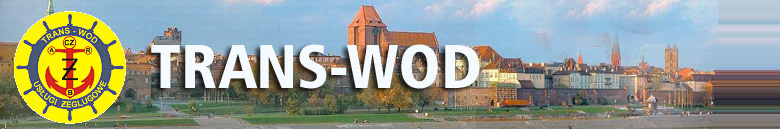
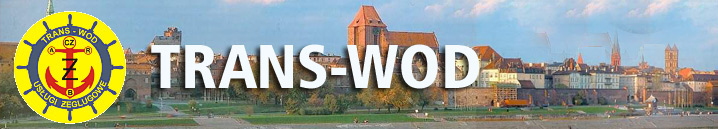
rwd applied in css

diff --git a/index.html b/index.html
@@ -1,100 +1,141 @@
 <!DOCTYPE html>
 <html lang="en">
-<head>
-<meta charset="utf-8">
-<meta http-equiv="X-UA-Compatible" content="IE=edge">
-<meta name="viewport" content="width=device-width, initial-scale=1">
-<link rel="stylesheet" media="all" href="common.css">
-<link rel="stylesheet" media="only screen and (max-width: 480px)" href="small.css">
-<link rel="stylesheet" media="only screen and (min-width: 480px)" href="large.css">
-<title>TRANS-WOD</title>
-</head>
+	<head>
+		<meta charset="utf-8">
+		<meta http-equiv="X-UA-Compatible" content="IE=edge">
+		<meta name="viewport" content="width=device-width, initial-scale=1">
+		<link rel="stylesheet" media="all" href="common.css">
+		<link rel="stylesheet" media="only screen and (max-width: 638px)" href="small.css">
+		<link rel="stylesheet" media="only screen and (min-width: 638px)" href="large.css">
+		<title>TRANS-WOD</title>
+	</head>
 
-<body>
+	<body>
 
-<script language="javascript">
+		<script language="javascript">
 function fotoGal(id,w,h) {
 
 	var alt=' - ';
-    var left = Math.ceil( (window.screen.width-w) / 2 );
-    var top = Math.ceil( (window.screen.height-h) / 2)-30;
+	var left = Math.ceil( (window.screen.width-w) / 2 );
+	var top = Math.ceil( (window.screen.height-h) / 2)-30;
 
 
-//	id = unescape(id);
+	//	id = unescape(id);
 
 	myWin = window.open("","myWind","width="+w+",height="+h+",left="+left+",top="+top+");");
 	myWin.document.open();
 	myWin.document.write('<html><title>'+alt+'</title><body bgcolor="#ffffff" leftmargin="0" topmargin="0" marginheight="0" marginwidth="0" onBlur="self.close()">'); 
 	myWin.document.write('<a href=javascript:window.close();><img src=\"'+id+'\" width='+w+' height='+h+' border=0></a>'); 
-	myWin.document.write('</body></html>');
+		myWin.document.write('</body></html>');
 	myWin.document.close();
 	myWin.focus();
 
 }
 
-</script>
-<div id="container">
-<h1><span>TRANS-WOD</span></h1>
 
-<div id="contact">
-<b>TRANS-WOD Błocki Czesław<br>
-05 -220 Zielonka<br>
-ul. Kilińskiego 45</b><br>
-<br>
-Telefony: tel. 601 625 682<br>
-fax. 56 651 44 10<br>
-<br>
-Adresy email: <a href="mailto:czeslaw_blocki@vp.pl" style="text-decoration:none">czeslaw_blocki@vp.pl</a><br>
-<br>
-<a href="http://www.zegluga.torun.com.pl/" style="text-decoration:none">http://www.zegluga.torun.com.pl</a><br>
-</div>
+		</script>
+		<div id="container">
+			<h1><img alt="TRANS-WOD" src="imgs/head.jpg" /></h1>
 
-<div id="gallery">
-<a href="javascript:fotoGal('g/163_6387.JPG','640','480');"><img src="imgs/163_6387.JPG" style="border-color:#444444; border-width:1px;" width="129.01" height="97"></a><a href="javascript:fotoGal('g/163_6399.JPG','640','480');"><img src="TRANS-WOD_files/163_6399.JPG" style="border-color:#444444; border-width:1px;" width="129.01" height="97"></a><img src="TRANS-WOD_files/t.htm" width="2"><a href="javascript:fotoGal('g/163_6400.JPG','640','480');"><img src="TRANS-WOD_files/163_6400.JPG" style="border-color:#444444; border-width:1px;" width="129.01" height="97"></a><img src="TRANS-WOD_files/t.htm" width="2"><br><img src="TRANS-WOD_files/t.htm" height="2"><br><a href="javascript:fotoGal('g/164_6401.JPG','640','480');"><img src="TRANS-WOD_files/164_6401.JPG" style="border-color:#444444; border-width:1px;" width="129.01" height="97"></a><img src="TRANS-WOD_files/t.htm" width="2"><a href="javascript:fotoGal('g/164_6408.JPG','640','480');"><img src="TRANS-WOD_files/164_6408.JPG" style="border-color:#444444; border-width:1px;" width="129.01" height="97"></a><img src="TRANS-WOD_files/t.htm" width="2">
-</div>
-	<tr>
-	<td style="font-family:verdana; line-height:20px; font-size:14px; color:#ffffff; padding-left:20px; padding-right:20px; padding-top:20px;" colspan="2">Godziny otwarcia:<br>
-<br>
-<b>Codziennie od 9.00 do 19.00 po godzinach możliwość wyczarterowania statków na imprezy okolicznościowe</b><br>
-<br>
-Proponujemy Państwu niepowtarzalną możliwość podziwiania panoramy 
-toruńskiej starówki z pokładów statku Wanda oraz statku Wiking. O każdej
- pełnej godzinie zabierzemy Was w 40-minutowy rejs po Wiśle. Wiking - 
-statek stylizowany na historyczne łodzie Wilkingów dodatkowo w trakcie 
-rejsu może dobić do przystani przy Kempie Bazarowej (rezerwat przyrody).
- Poza regularnymi rejsami proponujemy Państwu wynajem naszych statków, 
-na imprezy okolicznościowe, koncerty i spotkania firmowe. Na pokładzie 
-statku Wanda znajduje się bar z napojami i słodyczami. Rejsy statkiem 
-możliwe są również podczas złej pogody, Wanda posiada 70 miejsc w dwu 
-pomieszczeniach pod pokładem<br>
-<br>
-Bilety na rejsy 40-minutowe:<br>
-Dorośli: 15 zł<br>
-Dzieci i młodzież: 10 zł<br>
-Dzieci do lat 4: bezpłatnie<br>
-<br>
-Czarter statków:<br>
-Wanda-1000zł/h rejsu i 400zł/h postój na kotwicy<br>
-<br>
-Wiking-700zł/h rejsu i 300zł/h postój na kotwicy<p></p><br>
-<br>
-<center><b><u>DODATKOWO ŚWIADCZYMY USŁUGI ZWIĄZANE Z TRANSPORTEM RZECZNYM I MORSKIM PONADGABARYTOWYCH ŁADUNKÓW</u></b><br>
-<br>
-Posiadamy specjalistyczny sprzęt oraz wysokowykwalifikowaną kadrę, 
-szczegółowe informacje pod podanymi powyżej numerami telefonów.</center><br>
-<center><h3></h3><a href="javascript:fotoGal('g3/1.JPG','640','422');"><img src="TRANS-WOD_files/1.JPG" style="border-color:#444444; border-width:1px;" width="146.47" height="97"></a><img src="TRANS-WOD_files/t.htm" width="2"><a href="javascript:fotoGal('g3/2.JPG','640','421');"><img src="TRANS-WOD_files/2.JPG" style="border-color:#444444; border-width:1px;" width="146.47" height="97"></a><img src="TRANS-WOD_files/t.htm" width="2"><a href="javascript:fotoGal('g3/p1070058d.jpg','550','310');"><img src="TRANS-WOD_files/p1070058d.jpg" style="border-color:#444444; border-width:1px;" width="171.41095890411" height="97"></a><img src="TRANS-WOD_files/t.htm" width="2"><br><img src="TRANS-WOD_files/t.htm" height="2"><br><a href="javascript:fotoGal('g3/p1070079d.jpg','550','310');"><img src="TRANS-WOD_files/p1070079d.jpg" style="border-color:#444444; border-width:1px;" width="171.41095890411" height="97"></a><img src="TRANS-WOD_files/t.htm" width="2"><a href="javascript:fotoGal('g3/p1070082d.jpg','550','310');"><img src="TRANS-WOD_files/p1070082d.jpg" style="border-color:#444444; border-width:1px;" width="171.41095890411" height="97"></a><img src="TRANS-WOD_files/t.htm" width="2"><a href="javascript:fotoGal('g3/p1070088d.jpg','550','310');"><img src="TRANS-WOD_files/p1070088d.jpg" style="border-color:#444444; border-width:1px;" width="171.41095890411" height="97"></a><img src="TRANS-WOD_files/t.htm" width="2"><br><img src="TRANS-WOD_files/t.htm" height="2"><br><a href="javascript:fotoGal('g3/p1070177d.jpg','550','310');"><img src="TRANS-WOD_files/p1070177d.jpg" style="border-color:#444444; border-width:1px;" width="171.41095890411" height="97"></a><img src="TRANS-WOD_files/t.htm" width="2"><a href="javascript:fotoGal('g3/zegluga-01.jpg','550','364');"><img src="TRANS-WOD_files/zegluga-01.jpg" style="border-color:#444444; border-width:1px;" width="129" height="97"></a><img src="TRANS-WOD_files/t.htm" width="2"><a href="javascript:fotoGal('g3/zegluga-02.jpg','550','368');"><img src="TRANS-WOD_files/zegluga-02.jpg" style="border-color:#444444; border-width:1px;" width="129" height="97"></a><img src="TRANS-WOD_files/t.htm" width="2"><br><img src="TRANS-WOD_files/t.htm" height="2"><br><a href="javascript:fotoGal('g3/zegluga-03.jpg','550','342');"><img src="TRANS-WOD_files/zegluga-03.jpg" style="border-color:#444444; border-width:1px;" width="129" height="97"></a><img src="TRANS-WOD_files/t.htm" width="2"></center>	<br><br>
+			<div id="main-info" class="clearfix">
+				<div id="contact">
+					<b>TRANS-WOD Błocki Czesław<br>
+						05 -220 Zielonka<br>
+						ul. Kilińskiego 45</b><br>
+					<br>
+					Telefony: tel. 601 625 682<br>
+					fax. 56 651 44 10<br>
+					<br>
+					Adresy email: <a href="mailto:czeslaw_blocki@vp.pl" style="text-decoration:none">czeslaw_blocki@vp.pl</a><br>
+					<br>
+					<a href="http://www.zegluga.torun.com.pl/" style="text-decoration:none">http://www.zegluga.torun.com.pl</a><br>
+				</div>
 
-
-	</td>
-	</tr>
-	</tbody></table>
-
-</td>
-   </tr>
-  </tbody></table></td>
- </tr>
-</tbody></table>
-
-</div>
-</body>
+				<div id="gallery">
+					<div>
+					<a href="javascript:fotoGal('g/163_6387.JPG','640','480');"><img src="imgs/163_6387.JPG" style="border-color:#444444; border-width:1px;" width="129.01"
+																		 																	  height="97"></a>
+					<a href="javascript:fotoGal('g/163_6399.JPG','640','480');"><img
+		src="imgs/163_6399.JPG" style="border-color:#444444; border-width:1px;" width="129.01" height="97"></a>
+					</div>
+					<div>
+					<a
+									  																href="javascript:fotoGal('g/163_6400.JPG','640','480');"><img src="imgs/163_6400.JPG" style="border-color:#444444; border-width:1px;"
+																		  													width="129.01" height="97"></a>
+					</div>
+					<div>
+					<a href="javascript:fotoGal('g/164_6401.JPG','640','480');"><img src="imgs/164_6401.JPG"
+																	  style="border-color:#444444; border-width:1px;"
+				   width="129.01" height="97"></a>
+					<a href="javascript:fotoGal('g/164_6408.JPG','640','480');"><img src="imgs/164_6408.JPG"
+																	  style="border-color:#444444; border-width:1px;"
+				   width="129.01" height="97"></a>
+					</div>
+				</div>
+			</div>
+			<div id="offer">
+				Godziny otwarcia:<br>
+				<br>
+				<b>Codziennie od 9.00 do 19.00 po godzinach możliwość wyczarterowania statków na imprezy okolicznościowe</b><br>
+				<br>
+				Proponujemy Państwu niepowtarzalną możliwość podziwiania panoramy
+				toruńskiej starówki z pokładów statku Wanda oraz statku Wiking. O każdej
+				pełnej godzinie zabierzemy Was w 40-minutowy rejs po Wiśle. Wiking -
+				statek stylizowany na historyczne łodzie Wilkingów dodatkowo w trakcie
+				rejsu może dobić do przystani przy Kempie Bazarowej (rezerwat przyrody).
+				Poza regularnymi rejsami proponujemy Państwu wynajem naszych statków,
+				na imprezy okolicznościowe, koncerty i spotkania firmowe. Na pokładzie
+				statku Wanda znajduje się bar z napojami i słodyczami. Rejsy statkiem
+				możliwe są również podczas złej pogody, Wanda posiada 70 miejsc w dwu
+				pomieszczeniach pod pokładem<br>
+				<br>
+				Bilety na rejsy 40-minutowe:<br>
+				Dorośli: 15 zł<br>
+				Dzieci i młodzież: 10 zł<br>
+				Dzieci do lat 4: bezpłatnie<br>
+				<br>
+				Czarter statków:<br>
+				Wanda-1000zł/h rejsu i 400zł/h postój na kotwicy<br>
+				<br>
+				Wiking-700zł/h rejsu i 300zł/h postój na kotwicy<p></p><br>
+				<br>
+				<center><b><u>DODATKOWO ŚWIADCZYMY USŁUGI ZWIĄZANE Z TRANSPORTEM RZECZNYM I MORSKIM PONADGABARYTOWYCH ŁADUNKÓW</u></b><br>
+					<br>
+					Posiadamy specjalistyczny sprzęt oraz wysokowykwalifikowaną kadrę,
+					szczegółowe informacje pod podanymi powyżej numerami telefonów.
+				</center>
+			</div>
+			<div id="secondGallery">
+				<center><h3></h3><a href="javascript:fotoGal('g3/1.JPG','640','422');"><img src="imgs/1.JPG"
+																				style="border-color:#444444; border-width:1px;" width="146.47"
+																	height="97"></a>
+					<a href="javascript:fotoGal('g3/2.JPG','640','421');"><img src="imgs/2.JPG" style="border-color:#444444; border-width:1px;"
+																							width="146.47" height="97"></a>
+					<a href="javascript:fotoGal('g3/p1070058d.jpg','550','310');"><img src="imgs/p1070058d.jpg"
+																		style="border-color:#444444; border-width:1px;" width="171.41095890411"
+																  height="97"></a>
+					<a href="javascript:fotoGal('g3/p1070079d.jpg','550','310');"><img
+		src="imgs/p1070079d.jpg" style="border-color:#444444; border-width:1px;" width="171.41095890411" height="97"></a>
+					<a href="javascript:fotoGal('g3/p1070082d.jpg','550','310');"><img src="imgs/p1070082d.jpg"
+																		style="border-color:#444444; border-width:1px;"
+				  width="171.41095890411"
+	  height="97"></a>
+					<a href="javascript:fotoGal('g3/p1070088d.jpg','550','310');"><img src="imgs/p1070088d.jpg"
+																		style="border-color:#444444; border-width:1px;"
+				  width="171.41095890411"
+	  height="97"></a>
+					<a href="javascript:fotoGal('g3/p1070177d.jpg','550','310');"><img src="imgs/p1070177d.jpg"
+																		style="border-color:#444444; border-width:1px;" width="171.41095890411"
+																  height="97"></a>
+					<a href="javascript:fotoGal('g3/zegluga-01.jpg','550','364');"><img src="imgs/zegluga-01.jpg"
+																		 style="border-color:#444444; border-width:1px;" width="129"
+																   height="97"></a>
+					<a href="javascript:fotoGal('g3/zegluga-02.jpg','550','368');"><img src="imgs/zegluga-02.jpg"
+																		 style="border-color:#444444; border-width:1px;" width="129"
+																   height="97"></a>
+					<a href="javascript:fotoGal('g3/zegluga-03.jpg','550','342');"><img
+		src="imgs/zegluga-03.jpg" style="border-color:#444444; border-width:1px;" width="129" height="97"></a></center>
+			</div>
+		</div>
+	</body>
 </html>

diff --git a/common.css b/common.css
@@ -18,22 +18,43 @@ a {
 }
 
 #contact {
-	margin-left: 3em;
-	margin-top: 3em;
+	margin: 3em;
+	float: left;
+}
+
+#gallery {
+	margin: 3em 3em 3em 0;
+	float: right;
+}
+
+#gallery div {
+	text-align: center;
+}
+
+#offer {
+	margin: 0 3em;
+}
+
+#secondGallery {
+	margin: 3em 3em 0;
 }
 
 h1 {
 	margin: 0;
 	padding: 0;
 	display: block;
-	width: 100%;
-	height: 129px; /* TODO: rwd */
-	background-image: url("imgs/head.jpg");
-	background-size: contain;
-	background-repeat: no-repeat;
 }
 
-h1 span {
-	display: none;
+h1 img {
+	width: 100%;
+	height: auto;
+}
+
+.clearfix:before, .clearfix:after {
+	content:"";
+	display: table;
+}
+.clearfix:after {
+	clear: both;
 }
 

diff --git a/small.css b/small.css
@@ -1,0 +1,4 @@
+#gallery {
+	float: none;
+}
+
